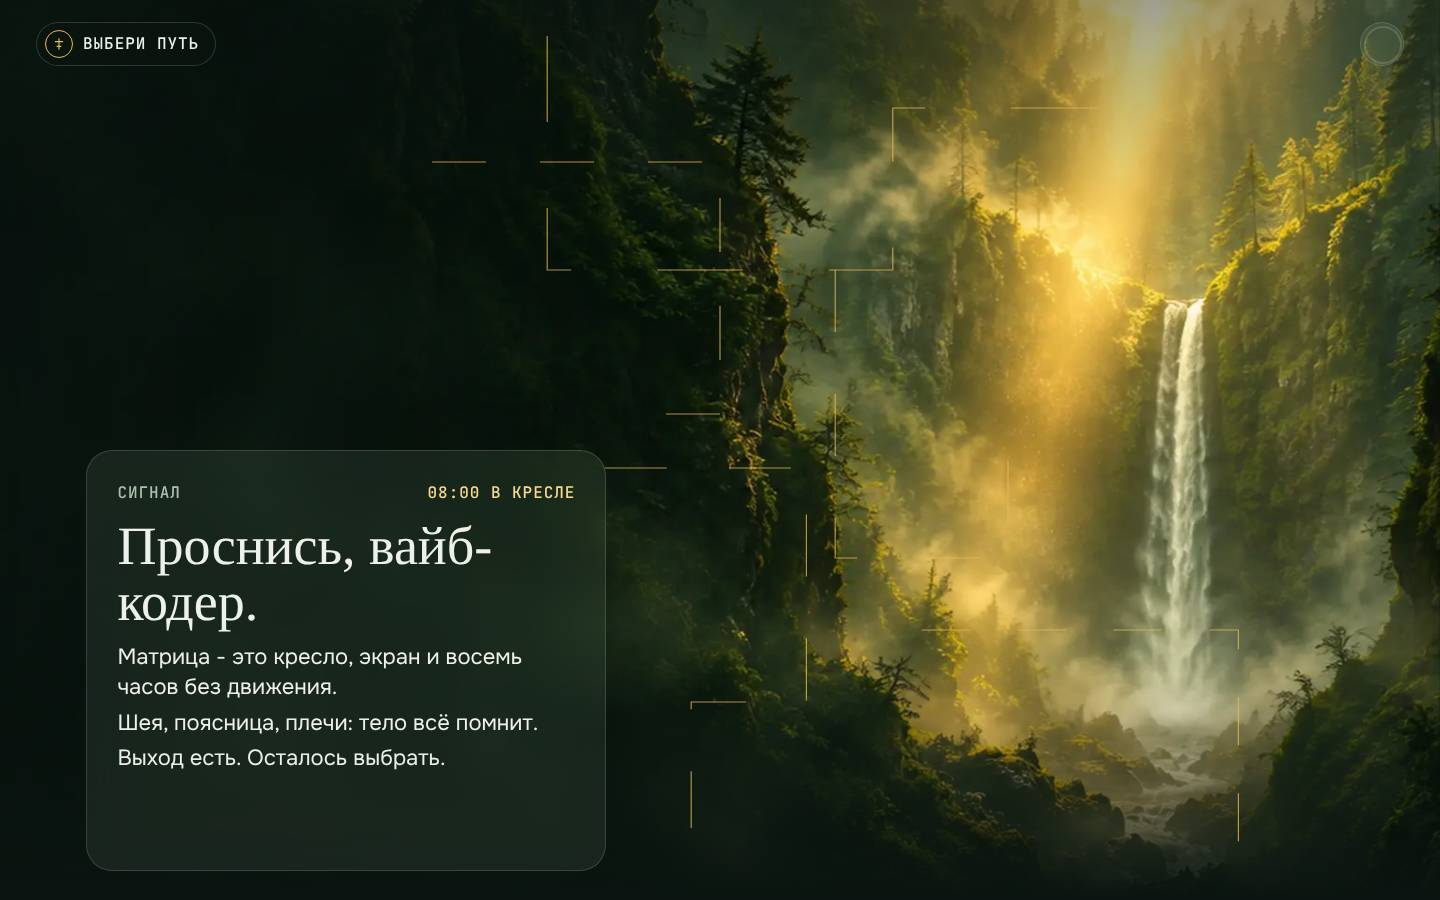
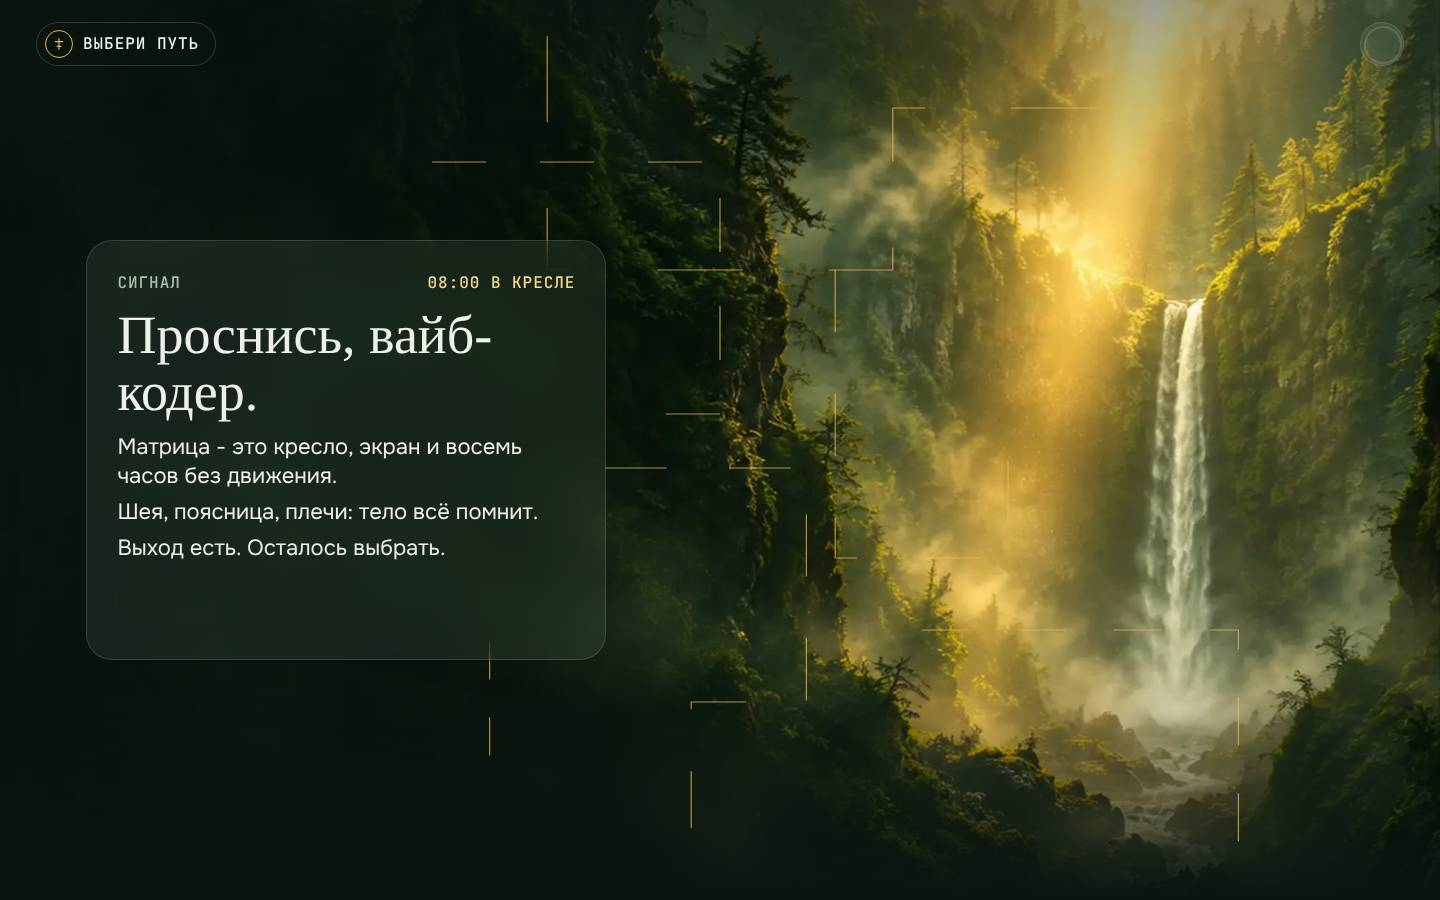
«Выбери путь» v2: починен возврат наверх

Changed region(s): [[0.0625, 0.28, 0.4062, 0.8711]]

diff --git a/versii/index.html b/versii/index.html
@@ -12,7 +12,7 @@ ul{padding-left:20px;margin:16px 0}li{margin:4px 0}details{border-top:1px solid 
 footer{padding:30px clamp(20px,5vw,72px) 60px;color:var(--soft);font-size:16px}
 @media(max-width:820px){.v{grid-template-columns:1fr;gap:18px}}
 </style></head><body>
-<header><h1>Все версии</h1><p>Обновлено 2026-10-12. Нажми на скриншот, чтобы открыть страницу. Слева - компьютер, справа - телефон. Напиши в чат, что оставляем, что убираем.</p></header>
+<header><h1>Все версии</h1><p>Обновлено 2026-10-13. Нажми на скриншот, чтобы открыть страницу. Слева - компьютер, справа - телефон. Напиши в чат, что оставляем, что убираем.</p></header>
 <main><article class="v"><div class="shots"><a href="/ozotens-menu/" class="d"><img src="img/menu-d.jpg" width="1440" height="900" alt="Лендинг-меню (стекло, окна из карточек), компьютер" loading="lazy"></a><a href="/ozotens-menu/" class="m"><img src="img/menu-m.jpg" width="390" height="844" alt="Лендинг-меню (стекло, окна из карточек), телефон" loading="lazy"></a></div>
 <div class="tx"><p class="st">новое, ждёт решения</p><h2>Лендинг-меню (стекло, окна из карточек)</h2><p class="url"><a href="/ozotens-menu/">asherbakov.ru/ozotens-menu/</a></p>
 <ul><li>Переупаковка лендинга по рефам: тёмно-бирюзовое стекло, засечки с курсивом, фото товара в тумане (Higgsfield)</li><li>Первый экран: одно обещание и одна кнопка «Открыть меню», предупреждение о противопоказаниях</li><li>Меню из фото-карточек с фильтром (Метод / Набор / Безопасность), карточки перестраиваются плавно (GSAP Flip)</li><li>Тап по карточке - раздел раскрывается из неё на весь экран, закрывается обратно в карточку; на телефоне можно смахнуть вниз</li><li>«Где болит?»: выбор области, размер M / L / XL сбоку, количество и «В заказ» (как карточка бургера в рефе)</li><li>«Набор»: прибор + крем + выбранный электрод, сумма, «Всё в заказ». Корзина общая с магазином</li><li>Плавная прокрутка Lenis, на компьютере своя раскладка: сетка-мозаика и окна по центру</li></ul><details><summary>История правок</summary><ul><li>12.10 - первая версия, GSAP и Lenis по слову владельца</li></ul></details></div></article><article class="v"><div class="shots"><a href="/ozotens-v3/" class="d"><img src="img/v3-d.jpg" width="1440" height="900" alt="ОЗОТЭНС v3 «пространство», компьютер" loading="lazy"></a><a href="/ozotens-v3/" class="m"><img src="img/v3-m.jpg" width="390" height="844" alt="ОЗОТЭНС v3 «пространство», телефон" loading="lazy"></a></div>
@@ -29,7 +29,7 @@ footer{padding:30px clamp(20px,5vw,72px) 60px;color:var(--soft);font-size:16px}
 <div class="tx"><p class="st">демо B2B</p><h2>Медозонс v2 (для клиник)</h2><p class="url"><a href="/medozons-v2/">asherbakov.ru/medozons-v2/</a></p>
 <ul><li>Светлый премиальный стиль FF Family</li><li>Аппараты ПРО-01 и БЬЮТИ с характеристиками, кабинет, производство, обучение, карта клиник</li><li>Только настоящие фото с medozons.ru</li></ul><details><summary>История правок</summary><ul><li>12.10 - первая версия</li></ul></details></div></article><article class="v"><div class="shots"><a href="/vyberi-put-v2/" class="d"><img src="img/path2-d.jpg" width="1440" height="900" alt="«Выбери путь» v2 (ущелье, стекло, золото), компьютер" loading="lazy"></a><a href="/vyberi-put-v2/" class="m"><img src="img/path2-m.jpg" width="390" height="844" alt="«Выбери путь» v2 (ущелье, стекло, золото), телефон" loading="lazy"></a></div>
 <div class="tx"><p class="st">новое, ждёт решения</p><h2>«Выбери путь» v2 (ущелье, стекло, золото)</h2><p class="url"><a href="/vyberi-put-v2/">asherbakov.ru/vyberi-put-v2/</a></p>
-<ul><li>Те же тексты и три пути, что в первой версии, новое оформление по рефам: туманное ущелье с золотым лучом, шалфей, стеклянные панели, засечки</li><li>Вступление: строки «Проснись, вайб-кодер» проявляются одна за другой, золотые линии прорисовываются; при прокрутке ущелье уходит вглубь</li><li>Три пути - стеклянные карточки с сюрреалистичными 3D-картинками (Higgsfield); на ПК лёгкий наклон за курсором</li><li>Тап по карточке - путь раскрывается из неё на весь экран, на телефоне смахивается вниз</li><li>Финальная фраза проявляется по словам при прокрутке, кружок прогресса сверху</li><li>GSAP + ScrollTrigger + Lenis, свои копии; без них и при «уменьшить движение» всё видно сразу</li></ul><details><summary>История правок</summary><ul><li>12.10 - первая версия</li></ul></details></div></article><article class="v"><div class="shots"><a href="/vyberi-put/" class="d"><img src="img/path-d.jpg" width="1440" height="900" alt="«Выбери путь» (Матрица), компьютер" loading="lazy"></a><a href="/vyberi-put/" class="m"><img src="img/path-m.jpg" width="390" height="844" alt="«Выбери путь» (Матрица), телефон" loading="lazy"></a></div>
+<ul><li>Те же тексты и три пути, что в первой версии, новое оформление по рефам: туманное ущелье с золотым лучом, шалфей, стеклянные панели, засечки</li><li>Вступление: строки «Проснись, вайб-кодер» проявляются одна за другой, золотые линии прорисовываются; при прокрутке ущелье уходит вглубь</li><li>Три пути - стеклянные карточки с сюрреалистичными 3D-картинками (Higgsfield); на ПК лёгкий наклон за курсором</li><li>Тап по карточке - путь раскрывается из неё на весь экран, на телефоне смахивается вниз</li><li>Финальная фраза проявляется по словам при прокрутке, кружок прогресса сверху</li><li>GSAP + ScrollTrigger + Lenis, свои копии; без них и при «уменьшить движение» всё видно сразу</li></ul><details><summary>История правок</summary><ul><li>12.10 - первая версия</li><li>13.10 - починено: при возврате наверх пропадала панель «Проснись, вайб-кодер»; на ПК панель ровно по центру</li></ul></details></div></article><article class="v"><div class="shots"><a href="/vyberi-put/" class="d"><img src="img/path-d.jpg" width="1440" height="900" alt="«Выбери путь» (Матрица), компьютер" loading="lazy"></a><a href="/vyberi-put/" class="m"><img src="img/path-m.jpg" width="390" height="844" alt="«Выбери путь» (Матрица), телефон" loading="lazy"></a></div>
 <div class="tx"><p class="st">промо-лендинг</p><h2>«Выбери путь» (Матрица)</h2><p class="url"><a href="/vyberi-put/">asherbakov.ru/vyberi-put/</a></p>
 <ul><li>«Проснись, вайб-кодер», цифровой дождь, руки поднимаются из темноты (видео)</li><li>3D-таблетки крутятся на ладонях как пикапы, глич, звук по кнопке</li><li>Ведёт на основной лендинг, к специалисту, в Медозонс</li></ul><details><summary>История правок</summary><ul><li>12.10 - первая версия</li><li>12.10 - руки, таблетки на ладонях, наведение прямо на таблетку</li></ul></details></div></article><article class="v"><div class="shots"><a href="/strelyaet/" class="d"><img src="img/shoot-d.jpg" width="1440" height="900" alt="«Стреляет» (по мотивам «Жмурок»), компьютер" loading="lazy"></a><a href="/strelyaet/" class="m"><img src="img/shoot-m.jpg" width="390" height="844" alt="«Стреляет» (по мотивам «Жмурок»), телефон" loading="lazy"></a></div>
 <div class="tx"><p class="st">промо-лендинг, перед запуском - юрист</p><h2>«Стреляет» (по мотивам «Жмурок»)</h2><p class="url"><a href="/strelyaet/">asherbakov.ru/strelyaet/</a></p>

diff --git a/vyberi-put-v2/index.html b/vyberi-put-v2/index.html
@@ -56,6 +56,8 @@ em{font-style:italic;color:var(--gold2)}
 .intro::after{content:"";position:absolute;inset:0;background:linear-gradient(180deg,rgba(11,20,16,.55),rgba(11,20,16,.05) 30%,rgba(11,20,16,.2) 60%,var(--bg) 98%);pointer-events:none}
 .lines{position:absolute;inset:0;width:100%;height:100%;z-index:1;pointer-events:none}
 .lines path{fill:none;stroke:var(--gold);stroke-width:1.2;opacity:.75;vector-effect:non-scaling-stroke}
+.tw{position:absolute;inset:0;z-index:2;pointer-events:none}
+.tw .term{pointer-events:auto}
 .term{position:absolute;z-index:2;left:16px;right:16px;bottom:calc(24px + env(safe-area-inset-bottom));padding:22px 20px 20px;border-radius:26px}
 .term .mono{color:var(--sage);display:flex;justify-content:space-between;margin-bottom:12px}
 .term .mono b{color:var(--gold2);font-weight:500}
@@ -125,7 +127,7 @@ em{font-style:italic;color:var(--gold2)}
 
 @media(min-width:980px){
  .top{padding:22px 36px}
- .term{left:6vw;right:auto;bottom:auto;top:50%;transform:translateY(-50%);width:min(520px,40vw);padding:30px 30px 26px}
+ .term{left:6vw;right:auto;top:0;bottom:0;margin:auto 0;height:max-content;width:min(520px,40vw);padding:30px 30px 26px}
  .term p:first-of-type{font-size:54px}
  .term p{font-size:22px}
  .intro::after{background:linear-gradient(90deg,rgba(11,20,16,.6),rgba(11,20,16,0) 50%),linear-gradient(180deg,rgba(11,20,16,.4),transparent 25%,transparent 75%,var(--bg))}
@@ -160,14 +162,14 @@ em{font-style:italic;color:var(--gold2)}
   <svg class="lines" id="lines" viewBox="0 0 100 100" preserveAspectRatio="none" aria-hidden="true">
     <path d="M38 4V30H62V12H80"/><path d="M30 18H50V46H44"/><path d="M58 30V62H70V44"/><path d="M42 52H56V78H48V92"/><path d="M64 70H86V96"/><path d="M20 60H34V84"/>
   </svg>
-  <div class="term glass" id="term">
+  <div class="tw" id="tw"><div class="term glass" id="term">
     <div class="mono"><span>Сигнал</span><b id="clk">08:00 в кресле</b></div>
     <p>Проснись, вайб-кодер.</p>
     <p>Матрица - это кресло, экран и восемь часов без движения.</p>
     <p>Шея, поясница, плечи: тело всё помнит.</p>
     <p>Выход есть. Осталось выбрать.</p>
     <div class="act"><a class="btn press" href="#paths" id="gopaths">Выбрать путь<svg viewBox="0 0 24 24" fill="none" stroke="currentColor" stroke-width="2" stroke-linecap="round" stroke-linejoin="round" aria-hidden="true"><path d="M12 5v14M6 13l6 6 6-6"/></svg></a><span class="hint"><span></span>или листай</span></div>
-  </div>
+  </div></div>
 </section>
 
 <section class="paths" id="paths" aria-labelledby="ph">
@@ -300,9 +302,9 @@ function boot(){
  tl.fromTo('#term .act',{opacity:0,y:10},{opacity:1,y:0,duration:.5,ease:'power3.out'},.35+ps.length*.55);
  $$('#lines path').forEach(function(p,i){var L=p.getTotalLength();gsap.set(p,{strokeDasharray:L,strokeDashoffset:L});tl.to(p,{strokeDashoffset:0,duration:1.6,ease:'power2.inOut'},.2+i*.18)});
  /* при прокрутке ущелье уходит глубже, панель уплывает, линии гаснут */
- gsap.to('#bg',{yPercent:12,scale:1.08,ease:'none',scrollTrigger:{trigger:'#intro',start:'top top',end:'bottom top',scrub:true}});
- gsap.to('#term',{yPercent:-30,opacity:0,ease:'none',scrollTrigger:{trigger:'#intro',start:'40% top',end:'bottom top',scrub:true}});
- gsap.to('#lines',{opacity:0,yPercent:-8,ease:'none',scrollTrigger:{trigger:'#intro',start:'20% top',end:'90% top',scrub:true}});
+ gsap.fromTo('#bg',{yPercent:0,scale:1},{yPercent:12,scale:1.08,ease:'none',immediateRender:false,scrollTrigger:{trigger:'#intro',start:'top top',end:'bottom top',scrub:true}});
+ gsap.fromTo('#tw',{yPercent:0,opacity:1},{yPercent:-12,opacity:0,ease:'none',immediateRender:false,scrollTrigger:{trigger:'#intro',start:'40% top',end:'bottom top',scrub:true}});
+ gsap.fromTo('#lines',{opacity:1,yPercent:0},{opacity:0,yPercent:-8,ease:'none',immediateRender:false,scrollTrigger:{trigger:'#intro',start:'20% top',end:'90% top',scrub:true}});
  /* заголовок путей и карточки */
  gsap.from('#paths .hd>*',{y:30,opacity:0,duration:.8,ease:'expo.out',stagger:.08,scrollTrigger:{trigger:'#paths',start:'top 75%'}});
  var cards=$$('.card');
